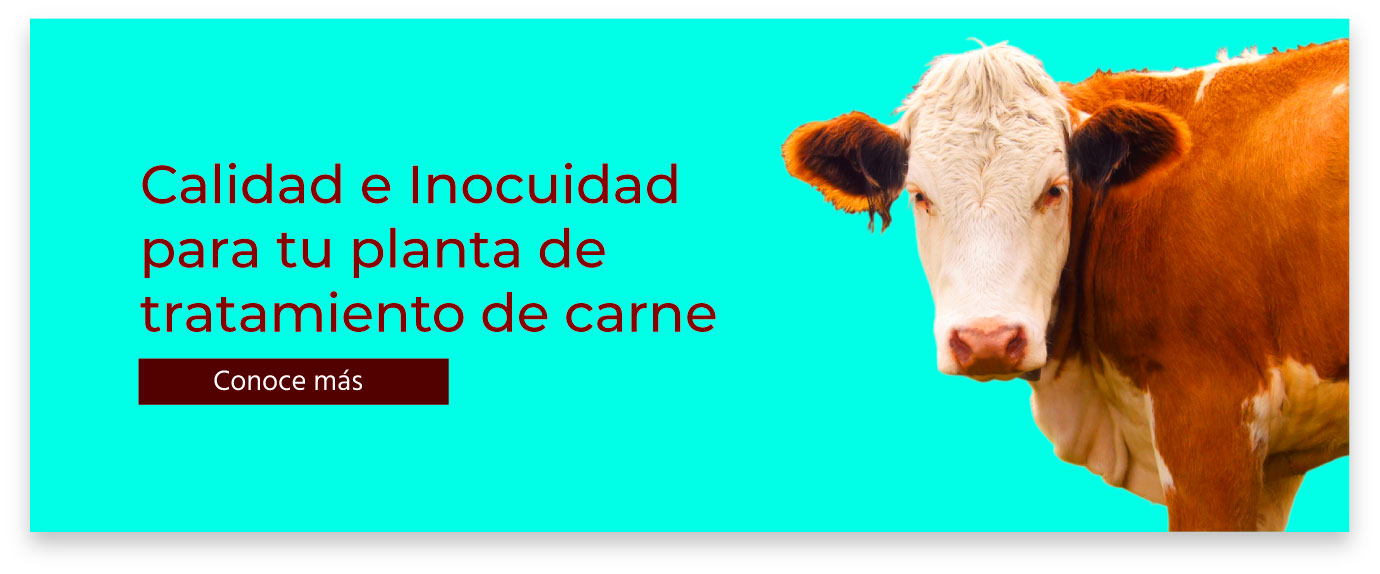
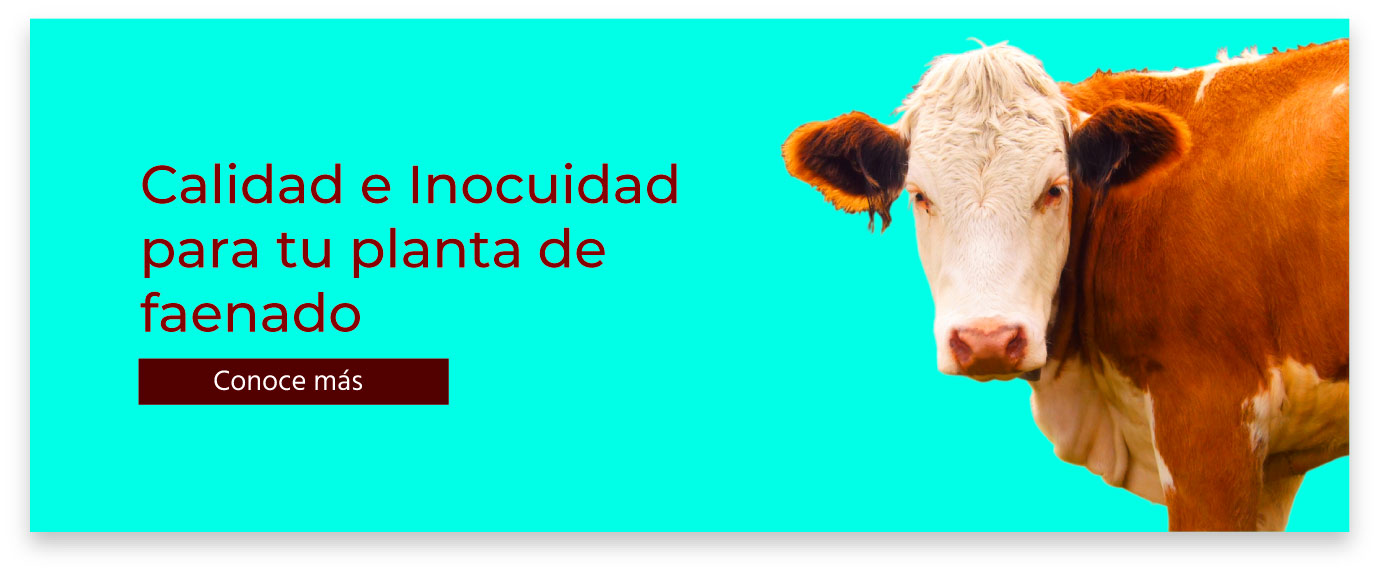
Y.Montoya: Cambio de CTA y enlace a what vasco

Changed region(s): [[0.0935, 0.5035, 0.5297, 0.5923]]

diff --git a/sira.html b/sira.html
@@ -60,11 +60,13 @@
                             alt="Logo Sira Holstein" 
                             style="margin-left: auto; margin-right: auto;max-height: 100px;outline: none; border: none;">
                     </a>
+                    <br>
+                    <br>
                     <p style="font-family: 'Montserrat', sans-serif; font-size: 30px; font-weight: 400;padding-left: 30px;padding-bottom: 0;margin-bottom: 0;margin-top: 0px; color: #720404;">
                         Frigonordeste 
                     </p>
                     <p style="font-family: 'Montserrat', sans-serif; font-size: 34px; font-weight: 900;padding-left: 30px;padding-bottom: 0;margin-bottom: 0;margin-top: 0px; color: #720404;">
-                       ¿Desea potenciar su planta de tratamiento de carnes?
+                       ¿Desea potenciar su planta de faenado?
                     </p>
                 </td>
             </tr>
@@ -73,9 +75,9 @@
             <!-- inicio CTA-->
             <tr>
                 <td>
-                    <a href="https://www.siraholstein.com" target="_blank">
+                    <a href="https://wa.me/3193892764" target="_blank">
                         <img createnew="true"  
-                            src="https://www.siraholstein.com/wp-content/uploads/2020/04/cta-2.jpg" 
+                            src="https://www.siraholstein.com/wp-content/uploads/2020/04/cta-2-1.jpg" 
                             alt="Sira Holstein, herramienta avanzada para el procesamiento de carne." 
                             width="100%" 
                             style="border: none;outline: none;padding: 0;margin-bottom: 20px;">
@@ -216,10 +218,10 @@
                                 <p style="font-family: 'Hind', serif; font-size: 16px; font-weight: 400;padding-left: 0px;padding-top: 20px;margin-top: 0; color: #ffffff;">
                                     Enviado por Atomico Digital S.A.
                                 </p>
-                                <p style="font-family: 'Hind', serif; font-size: 11px; font-weight: 400;padding-left: 0px;padding-top: 0;margin-top: 0; color: #ffffff;">
+                                <p style="font-family: 'Hind', serif; font-size: 0px; font-weight: 400;padding-left: 0px;padding-top: 0;margin-top: 0; color: #ffffff;">
                                     Te enviamos este mensaje porque eres parte de nuestros clientes. 
                                 </p>
-                                <p style="font-family: 'Hind', serif; font-size: 11px; font-weight: 400;padding-left: 0px;padding-top: 0;margin-top: 0; color: #ffffff;">
+                                <p style="font-family: 'Hind', serif; font-size: 0px; font-weight: 400;padding-left: 0px;padding-top: 0;margin-top: 0; color: #ffffff;">
                                     Si no deseas recibir más notificaciones de Actuando S.A.S has click 
                                     <a href="[UNSUBSCRIBEURL]" target="_blank" border="0" style="color: #8FFFE7;">
                                         aquí.  
